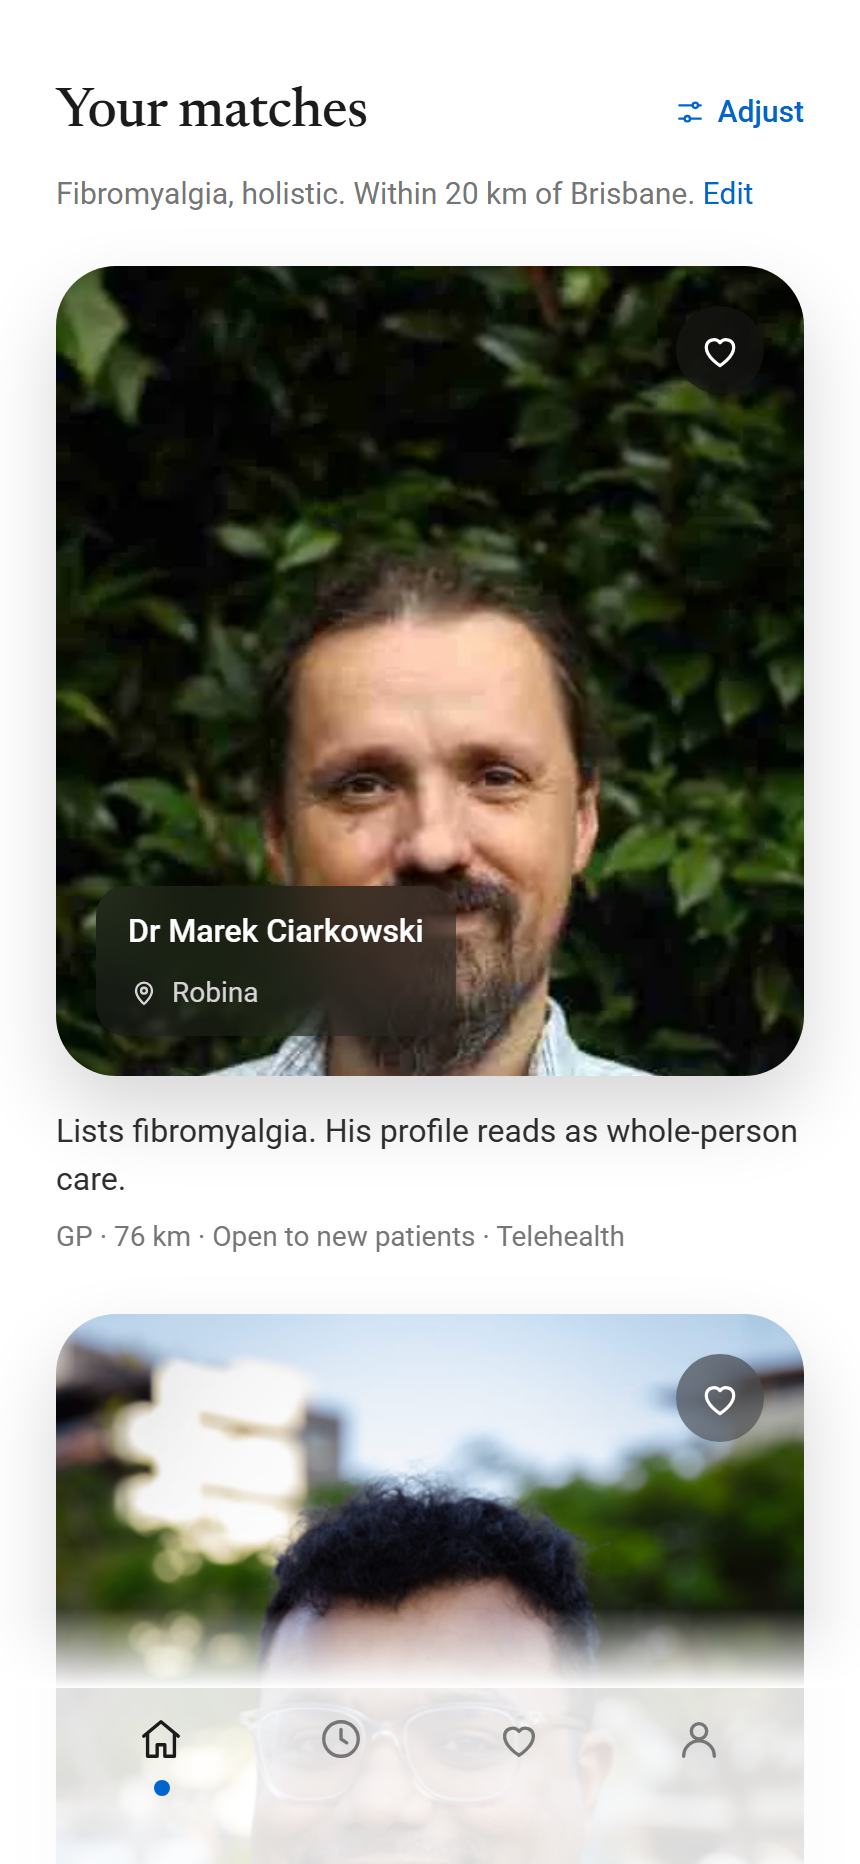
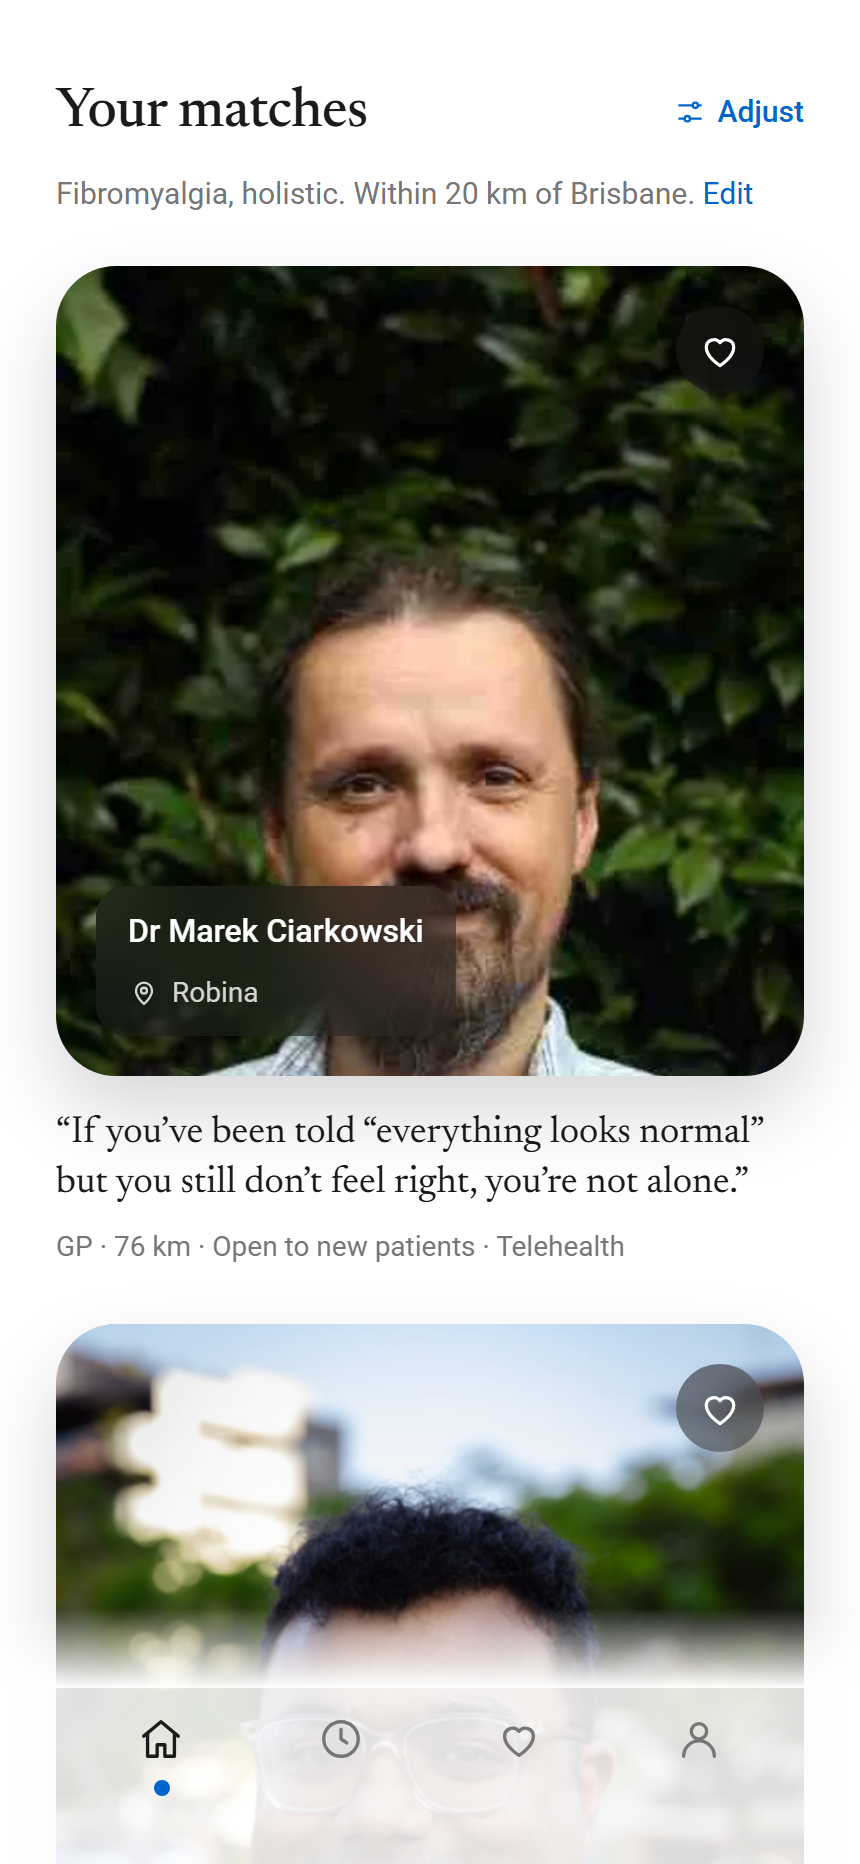
ui: results card opens with the doctor's own statement instead of the closed-vocabulary line; stale stored searches re-run so portraits appear; match screen and kit photo card carry the portrait

Changed region(s): [[0.0605, 0.5912, 0.9372, 0.9024]]

diff --git a/src/ui/screens/patient-a/DoctorCard.tsx b/src/ui/screens/patient-a/DoctorCard.tsx
@@ -10,7 +10,7 @@ import type { Card } from "@/src/data/search-types";
 import type { DoctorRecord } from "@/src/data/types";
 import { doctorHref } from "@/src/data/doctor-slug";
 import { Heart, MapPin, initialsFor, tintFor } from "@/src/ui/kit";
-import { drName, listSentence, practicalChips, pronouns, specialtyTitle } from "@/src/ui/screens/patient-b/facts";
+import { clip, drName, listSentence, practicalChips, pronouns, quoteOf, specialtyTitle } from "@/src/ui/screens/patient-b/facts";
 import { listedOnly, matchChips } from "./card";
 import { suburbOf } from "./lib";
 
@@ -85,13 +85,18 @@ export function DoctorCard({ card, labels, saved, onSave, index = 0 }: { card: C
   const km = card.distanceKm !== undefined ? `${Math.max(1, Math.round(card.distanceKm))} km` : d.telehealth.value === "only" ? "telehealth" : null;
   const where = [specialtyTitle(d.specialty), km].filter(Boolean).join(" · ");
   const practical = [where, ...practicalChips(d).slice(0, 2)].filter(Boolean);
+  const quote = quoteOf(d, 32);
   void suburbOf;
   return (
     <article className="rise" style={{ "--i": index } as React.CSSProperties}>
       <Link href={doctorHref(d.id)} className="press press-soft block">
         <Portrait d={d} saved={saved} onSave={onSave} />
-        <p className="mt-4 text-[16px] leading-[1.5] text-charcoal">{fitSentence(card, labels)}</p>
-        <p className="mt-1.5 text-[14px] text-grey">{practical.join(" · ")}</p>
+        {quote ? (
+          <p className="mt-4 font-display text-[19px] leading-[1.35] text-ink">“{clip(quote.text, 140)}”</p>
+        ) : (
+          <p className="mt-4 text-[16px] leading-[1.5] text-charcoal">{fitSentence(card, labels)}</p>
+        )}
+        <p className="mt-2 text-[14px] text-grey">{practical.join(" · ")}</p>
       </Link>
     </article>
   );

diff --git a/src/ui/screens/patient-a/Matches.tsx b/src/ui/screens/patient-a/Matches.tsx
@@ -7,7 +7,7 @@ import { useRouter } from "next/navigation";
 import { useEffect, useState } from "react";
 import type { SearchResponse } from "@/src/data/search-types";
 import { Body, Cta, Divider, Gap, Row, Screen, Sliders, TabBar } from "@/src/ui/kit";
-import { getCurrentRequest, getSavedIds, setDraft, toggleSavedId, type StoredRequest } from "@/src/ui/store";
+import { getCurrentRequest, getSavedIds, REQUEST_VERSION, setDraft, toggleSavedId, type StoredRequest } from "@/src/ui/store";
 import { Dock } from "./Dock";
 import { DoctorCard } from "./DoctorCard";
 import { REACH_KM, restoreCounts, runMatch } from "./lib";
@@ -30,9 +30,18 @@ export function Matches() {
 
   useEffect(() => {
     const found = getCurrentRequest();
-    if (!found) setMissing(true);
-    else setReq(found);
     setSaved(getSavedIds());
+    if (!found) return setMissing(true);
+    if ((found.v ?? 0) < REQUEST_VERSION) {
+      // Stored before the card shape changed (no portraits): run it again, same id.
+      setBusy(true);
+      runMatch({ sentence: found.sentence, suburb: found.suburb, removed: found.removed, anywhere: found.anywhere, id: found.id })
+        .then(setReq)
+        .catch(() => setReq(found))
+        .finally(() => setBusy(false));
+      return;
+    }
+    setReq(found);
   }, []);
 
   async function rerun(input: { anywhere?: boolean; sentence?: string }) {

diff --git a/src/ui/screens/patient-a/lib.ts b/src/ui/screens/patient-a/lib.ts
@@ -5,7 +5,7 @@ import { search } from "@/src/data/api";
 import type { Card, Chip, SearchRequest, SearchResponse } from "@/src/data/search-types";
 import type { DoctorRecord } from "@/src/data/types";
 import { regionOf } from "@/src/ui/screens/patient-b/facts";
-import { getRequest, newRequestId, pushRecent, setRequest, type StoredRequest } from "@/src/ui/store";
+import { getRequest, newRequestId, pushRecent, REQUEST_VERSION, setRequest, type StoredRequest } from "@/src/ui/store";
 
 export const DEFAULT_SUBURB = "Brisbane";
 export const REACH_KM = 20;
@@ -19,6 +19,7 @@ export async function runMatch(input: { sentence: string; suburb?: string; remov
   const response: SearchResponse = await search(body);
   const req: StoredRequest = {
     id: input.id ?? newRequestId(),
+    v: REQUEST_VERSION,
     sentence: input.sentence,
     suburb: input.suburb ?? DEFAULT_SUBURB,
     removed: input.removed ?? [],

diff --git a/src/ui/kit/index.tsx b/src/ui/kit/index.tsx
@@ -218,7 +218,7 @@ export function PhotoCard({ name, place, fee, photo, height = 460, caption = tru
     <div className="relative w-full overflow-hidden rounded-card shadow-photo" style={{ height, background: photo ? undefined : "#d9d9d9" }}>
       {photo ? (
         // eslint-disable-next-line @next/next/no-img-element
-        <img src={photo} alt="" className="absolute inset-0 size-full object-cover" />
+        <img src={photo} alt="" referrerPolicy="no-referrer" className="absolute inset-0 size-full object-cover object-top" />
       ) : (
         <span className="absolute inset-0 flex items-center justify-center font-inter text-[24px] font-medium text-grey">{initialsOf(name)}</span>
       )}

diff --git a/src/ui/store.ts b/src/ui/store.ts
@@ -70,8 +70,13 @@ const SPLASH = "wattle.splash.seen";
 const CURRENT = "wattle.req.current";
 const DRAFT = "wattle.draft";
 
+/** Bump when the stored card shape changes; older stored searches are re-run on load. */
+export const REQUEST_VERSION = 2;
+
 export interface StoredRequest {
   id: string;
+  /** REQUEST_VERSION at the time it was stored; absent on the oldest. */
+  v?: number;
   sentence: string;
   suburb: string;
   removed: string[];

diff --git a/src/ui/screens/patient-a/Match.tsx b/src/ui/screens/patient-a/Match.tsx
@@ -91,7 +91,7 @@ export function Match({ rank }: { rank: number }) {
       >
         <PhotoCard
           name={d.name.display}
-          photo={null}
+          photo={d.photo?.url ?? null}
           height={460}
           caption={false}
           topLeft={
